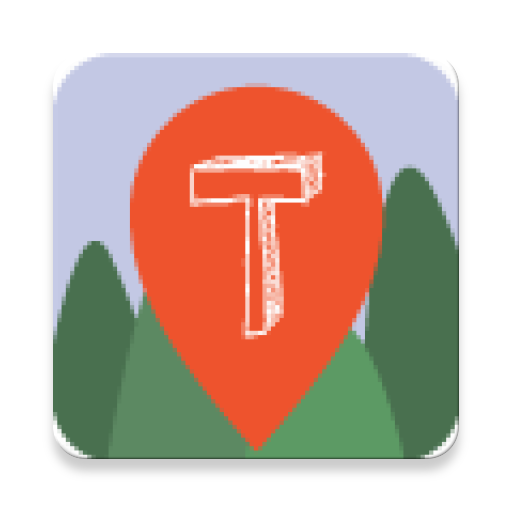
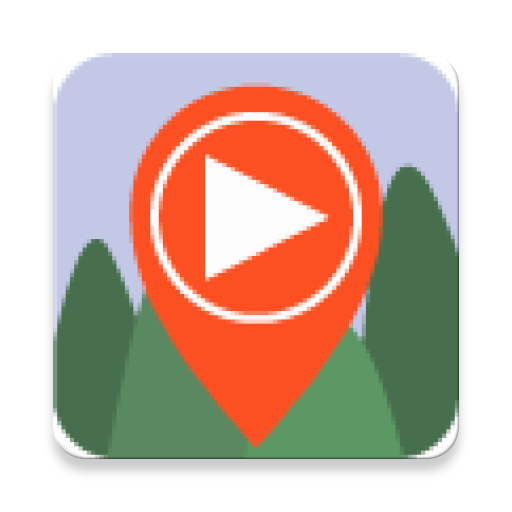
그래픽 리소스 수정, 줌인/줌아웃 추가.
* 아이콘 그래픽 리소스 다시 최신화, 런처 아이콘 수정.

* MainActivity 상에서 Zoom In, Zoom Out할 수 있는 기능 추가.

diff --git a/Traveling/app/src/main/java/com/example/edwin/traveling/System/MainActivity.java b/Traveling/app/src/main/java/com/example/edwin/traveling/System/MainActivity.java
@@ -49,6 +49,7 @@ public class MainActivity extends AppCompatActivity implements OnMapReadyCallbac
     private MarkerOptions userMarker;
     private float userX;
     private float userY;
+    private int zoom;
 
     private ArrayList<TravelPlace> placeList;
     private ArrayList<TravelPlace> festivalList;
@@ -113,6 +114,7 @@ public class MainActivity extends AppCompatActivity implements OnMapReadyCallbac
         super.onCreate(savedInstanceState);
         setContentView(R.layout.activity_main);
 
+        zoom = 15;
         filter = 0;
         positionReceiver = new PositionReceiver();
         IntentFilter filter = new IntentFilter("userData");
@@ -141,6 +143,20 @@ public class MainActivity extends AppCompatActivity implements OnMapReadyCallbac
         startActivity(Mission);
     }
 
+    public void zoomIn(View v){
+        if(zoom <= 20){
+            zoom += 1;
+            map.animateCamera(CameraUpdateFactory.zoomTo(zoom));
+        }
+    }
+
+    public void zoomOut(View v){
+        if(zoom > 10){
+            zoom -= 1;
+            map.animateCamera(CameraUpdateFactory.zoomTo(zoom));
+        }
+    }
+
     public void menuOnClick(View v){
         IconizedMenu popup = new IconizedMenu(this, v);
         MenuInflater inflater = popup.getMenuInflater();
@@ -156,6 +172,11 @@ public class MainActivity extends AppCompatActivity implements OnMapReadyCallbac
                 map.clear();
                 drawUser(userX, userY);
                 switch(item.getItemId()) {
+                    case R.id.cancel:
+                        filter = 0;
+                        drawFestivalList();
+                        drawPlaceList();
+                        break;
                     case R.id.fest:
                         filter = TravelPlace.FESTIVAL;
                         drawFestivalList();
@@ -295,7 +316,7 @@ public class MainActivity extends AppCompatActivity implements OnMapReadyCallbac
 
         map.addMarker(userMarker);
         map.moveCamera(CameraUpdateFactory.newLatLng(start));
-        map.animateCamera(CameraUpdateFactory.zoomTo(15));
+        map.animateCamera(CameraUpdateFactory.zoomTo(zoom));
 
     }
     @Override
